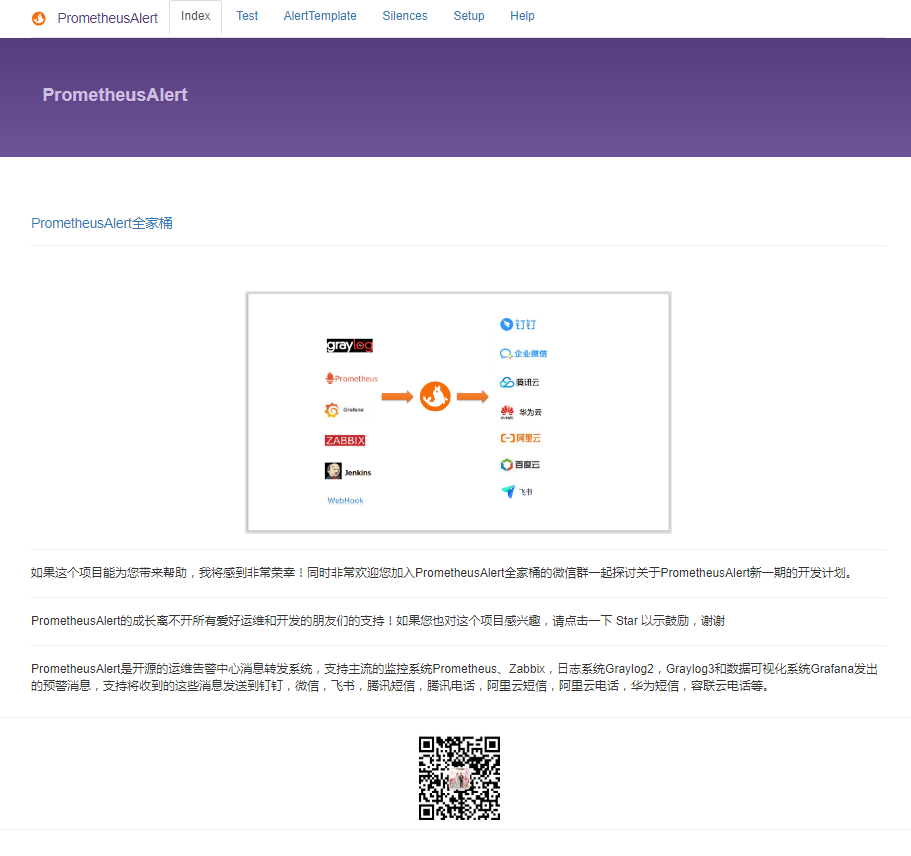
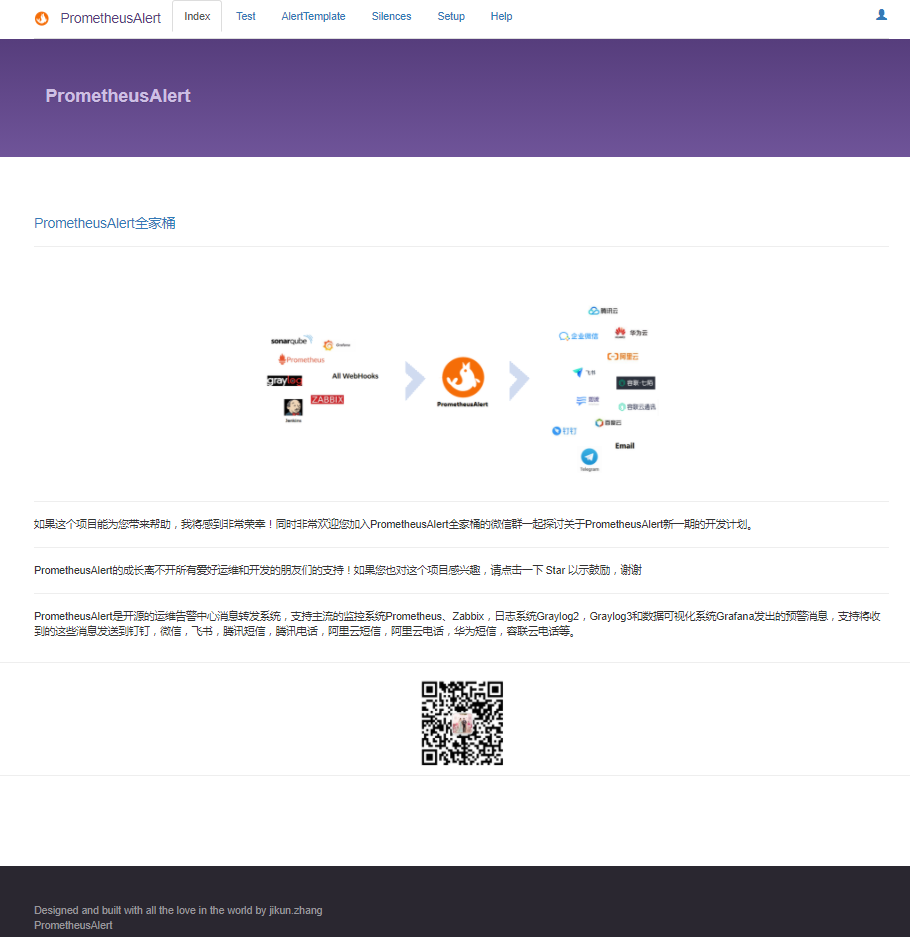
更新基础登录验证，访问测试页面和模版编辑页面需登录

diff --git a/views/main.html b/views/main.html
@@ -2,10 +2,10 @@
 <!DOCTYPE html>
 <html>
 <head>
-  <link rel="shortcut icon" href="/static/img/prometheus-ico.png" />
+  <link rel="shortcut icon" href="static/img/prometheus-ico.png" />
   <meta http-equiv="Content-Type" content="text/html; charset=utf-8">
-  <link href="/static/css/bootstrap.min.css" rel="stylesheet" />
-  <link href="/static/css/docs.css" rel="stylesheet" />
+  <link href="static/css/bootstrap.min.css" rel="stylesheet" />
+  <link href="static/css/docs.css" rel="stylesheet" />
   <style>
 	  #myBtn {
 	  display: none;
@@ -32,7 +32,7 @@
 <div class="navbar navbar-static-top bs-docs-nav">
   <div class="container">
   <a class="navbar-brand" href="#">
-    <img alt="Brand" width="20" height="20" src="/static/img/prometheus-ico.png">
+    <img alt="Brand" width="20" height="20" src="static/img/prometheus-ico.png">
   </a>
   <a class="navbar-brand"  href="/">PrometheusAlert</a>
     <ul class="nav nav-tabs">
@@ -43,9 +43,9 @@
       <li role="presentation" {{if .IsSetup}}class="active"{{end}}><a href="javascript:if(confirm('即将上线，敬请期待......'))location='/'">Setup</a></li>
       <li role="presentation"><a href="https://feiyu563.github.io/">Help</a></li>
       {{if .IsLogin}}
-      <!--<li role="presentation" class="navbar-right"><a href="/login?exit=true"><span class="glyphicon glyphicon-off"></span></a></li>-->
+      <li role="presentation" class="navbar-right"><a href="/login?exit=true"><span class="glyphicon glyphicon-off"></span></a></li>
       {{else}}
-      <!--<li role="presentation" class="navbar-right"><a href="/login"><span class="glyphicon glyphicon-user"></span></a></li>-->
+      <li role="presentation" class="navbar-right"><a href="/login"><span class="glyphicon glyphicon-user"></span></a></li>
       {{end}}
     </ul>
   </div>
@@ -53,8 +53,8 @@
 {{end}}
 
 {{define "endhtml"}}
-<script type="text/javascript" src="/static/js/jquery-3.3.1.min.js"></script>
-<script type="text/javascript" src="/static/js/bootstrap.min.js"></script>
+<script type="text/javascript" src="static/js/jquery-3.3.1.min.js"></script>
+<script type="text/javascript" src="static/js/bootstrap.min.js"></script>
 <div class="container">
 	<button onclick="topFunction()" id="myBtn"><span class="glyphicon glyphicon-plane"></span><p>返回顶部</p></button>
 	<script>

diff --git a/views/index.html b/views/index.html
@@ -28,7 +28,7 @@
   </div>
 <div class="page-header">
 <div class="container text-center">
-<p><a target="_blank" rel="noopener noreferrer" href="https://github.com/feiyu563/PrometheusAlert"><img src="/static/img/it.png" alt="it" style="max-width:50%;"></a></p>
+<p><a target="_blank" rel="noopener noreferrer" href="https://github.com/feiyu563/PrometheusAlert"><img src="static/img/it.png" alt="it" style="max-width:50%;"></a></p>
 <hr>
 </div>
 <div class="container">
@@ -40,7 +40,7 @@
 </div>
 <hr>
 <div class="container text-center">
-<img alt="Brand" width="120" height="120" src="/static/img/wx.png">
+<img alt="Brand" width="120" height="120" src="static/img/wx.png">
 
 
 

diff --git a/views/template_add.html b/views/template_add.html
@@ -96,7 +96,7 @@
 					    </div>
 					    </form>
 					</div>
-					<script type="text/javascript" src="/static/js/jquery-3.3.1.min.js"></script>
+					<script type="text/javascript" src="static/js/jquery-3.3.1.min.js"></script>
 					<script type="text/javascript">
                         function typeChange(){
                          var objS = document.getElementById("type");

diff --git a/views/template_edit.html b/views/template_edit.html
@@ -98,7 +98,7 @@
 					    </div>
 					    </form>
 					</div>
-					<script type="text/javascript" src="/static/js/jquery-3.3.1.min.js"></script>
+					<script type="text/javascript" src="static/js/jquery-3.3.1.min.js"></script>
 					<script type="text/javascript">
                         $(function () {
                             typeChange();

diff --git a/views/test.html b/views/test.html
@@ -131,7 +131,7 @@
 		</div>
 <div class="page-header">
 <div class="container text-center"> 
-<script type="text/javascript" src="/static/js/jquery-3.3.1.min.js"></script>
+<script type="text/javascript" src="static/js/jquery-3.3.1.min.js"></script>
     <script>
       $(function(){
          $(".btn").click(function(){

diff --git a/views/login.html b/views/login.html
@@ -1,7 +1,7 @@
 {{template "main"}}
-<title>博客登录</title>
+	<title>PrometheusAlert全家桶</title>
 </head>
-    <body>
+<body>
 {{template "head" .}}
 <div class="bs-docs-header">
 	<div class="container">

diff --git a/controllers/default.go b/controllers/default.go
@@ -20,16 +20,26 @@ type MainController struct {
 func (c *MainController) Get() {
 	c.Data["IsIndex"] = true
 	c.TplName = "index.html"
+	c.Data["IsLogin"] = checkAccount(c.Ctx)
 }
 
 //test page
 func (c *MainController) Test() {
+	if  !checkAccount(c.Ctx) {
+		c.Redirect("/login", 302)
+		return
+	}
 	c.Data["IsTest"] = true
 	c.TplName = "test.html"
+	c.Data["IsLogin"] = checkAccount(c.Ctx)
 }
 
 //template page
 func (c *MainController) Template() {
+	if  !checkAccount(c.Ctx) {
+		c.Redirect("/login", 302)
+		return
+	}
 	c.Data["IsTemplate"] = true
 	c.TplName = "template.html"
 	Template, err := models.GetAllTpl()
@@ -37,12 +47,18 @@ func (c *MainController) Template() {
 		logs.Error(err)
 	}
 	c.Data["Template"] = Template
+	c.Data["IsLogin"] = checkAccount(c.Ctx)
 }
 
 //template add
 func (c *MainController) TemplateAdd() {
+	if  !checkAccount(c.Ctx) {
+		c.Redirect("/login", 302)
+		return
+	}
 	c.Data["IsTemplate"] = true
 	c.TplName = "template_add.html"
+	c.Data["IsLogin"] = checkAccount(c.Ctx)
 }
 func (c *MainController) AddTpl() {
 	//获取表单信息
@@ -68,6 +84,10 @@ func (c *MainController) AddTpl() {
 	c.ServeJSON()
 }
 func (c *MainController) TemplateEdit() {
+	if  !checkAccount(c.Ctx) {
+		c.Redirect("/login", 302)
+		return
+	}
 	c.Data["IsTemplate"] = true
 	c.TplName = "template_edit.html"
 	s_id, _ := strconv.Atoi(c.Input().Get("id"))
@@ -76,6 +96,7 @@ func (c *MainController) TemplateEdit() {
 		logs.Error(err)
 	}
 	c.Data["Template"] = Template
+	c.Data["IsLogin"] = checkAccount(c.Ctx)
 }
 
 //func (c *MainController) TemplateTest() {
@@ -89,6 +110,10 @@ func (c *MainController) TemplateEdit() {
 //	c.Data["Template"] = Template
 //}
 func (c *MainController) TemplateDel() {
+	if  !checkAccount(c.Ctx) {
+		c.Redirect("/login", 302)
+		return
+	}
 	s_id, _ := strconv.Atoi(c.Input().Get("id"))
 	err := models.DelTpl(s_id)
 	if err != nil {

diff --git a/controllers/login.go b/controllers/login.go
@@ -1,0 +1,66 @@
+package controllers
+
+import (
+	"github.com/astaxie/beego"
+	"github.com/astaxie/beego/context"
+)
+
+type LoginController struct {
+	beego.Controller
+}
+
+func (c *LoginController) Get() {
+	//判断是否为退出操作
+	if c.Input().Get("exit")=="true" {
+		c.Ctx.SetCookie("username","",-1,"/")
+		c.Ctx.SetCookie("password","",-1,"/")
+		c.Redirect("/",302)
+		return
+	}
+	c.TplName = "login.html"
+}
+
+func (c *LoginController) Post() {
+	//获取用户名和密码信息
+	username:=c.Input().Get("username")
+	password:=c.Input().Get("password")
+	autologin:=c.Input().Get("autologin")=="on"
+	//判断用户名密码是否正确
+	if beego.AppConfig.String("login_user") == username && beego.AppConfig.String("login_password") == password {
+		maxage:=0
+		if autologin {
+			maxage= 1<<31-1
+		}
+		c.Ctx.SetCookie("username",username,maxage,"/")
+		c.Ctx.SetCookie("password",password,maxage,"/")
+		c.Redirect("/",301)
+		return
+	} else {
+		//flash.Data["error"]=true
+		//c.Redirect("/login",301)
+		//return
+		c.TplName = "login.html"
+		c.Data["loginerror"]=true
+		//err:=c.Render()
+		//if err!=nil {
+		//	beego.Error(err)
+		//}
+	}
+
+	//return
+}
+
+//检查cookie是否为登录状态
+func checkAccount(mycookie *context.Context) bool {
+	ck,err:=mycookie.Request.Cookie("username")
+	if err!=nil {
+		return false
+	}
+	username:=ck.Value
+	ck,err=mycookie.Request.Cookie("password")
+	if err!=nil {
+		return false
+	}
+	password:=ck.Value
+	return beego.AppConfig.String("login_user") == username && beego.AppConfig.String("login_password") == password
+}

diff --git a/routers/router.go b/routers/router.go
@@ -9,6 +9,7 @@ import (
 func init() {
 	//page
 	beego.Router("/", &controllers.MainController{})
+	beego.Router("/login", &controllers.LoginController{})
 	beego.Router("/test", &controllers.MainController{}, "get:Test")
 	beego.Router("/template", &controllers.MainController{}, "get:Template")
 	beego.Router("/template/add", &controllers.MainController{}, "get:TemplateAdd")

diff --git a/main.go b/main.go
@@ -62,7 +62,7 @@ func main() {
 		logpath := beego.AppConfig.String("logpath")
 		logs.SetLogger(logtype, `{"filename":"`+logpath+`"}`)
 	}
-	logs.Info("[main] 当前版本（Version）4.3.3")
+	logs.Info("[main] 当前版本（Version）4.3.4")
 	model.MetricsInit()
 	beego.Handler("/metrics", promhttp.Handler())
 	beego.Run()

diff --git a/README.MD b/README.MD
@@ -42,6 +42,7 @@ cd PrometheusAlert/example/linux/
 ./PrometheusAlert (#后台运行请执行 nohup ./PrometheusAlert &)
 
 #启动后可使用浏览器打开以下地址查看：http://xxx.xxx.xxx.xxx:8080
+#默认登录帐号和密码在app.conf中有配置
 ```
 
 
